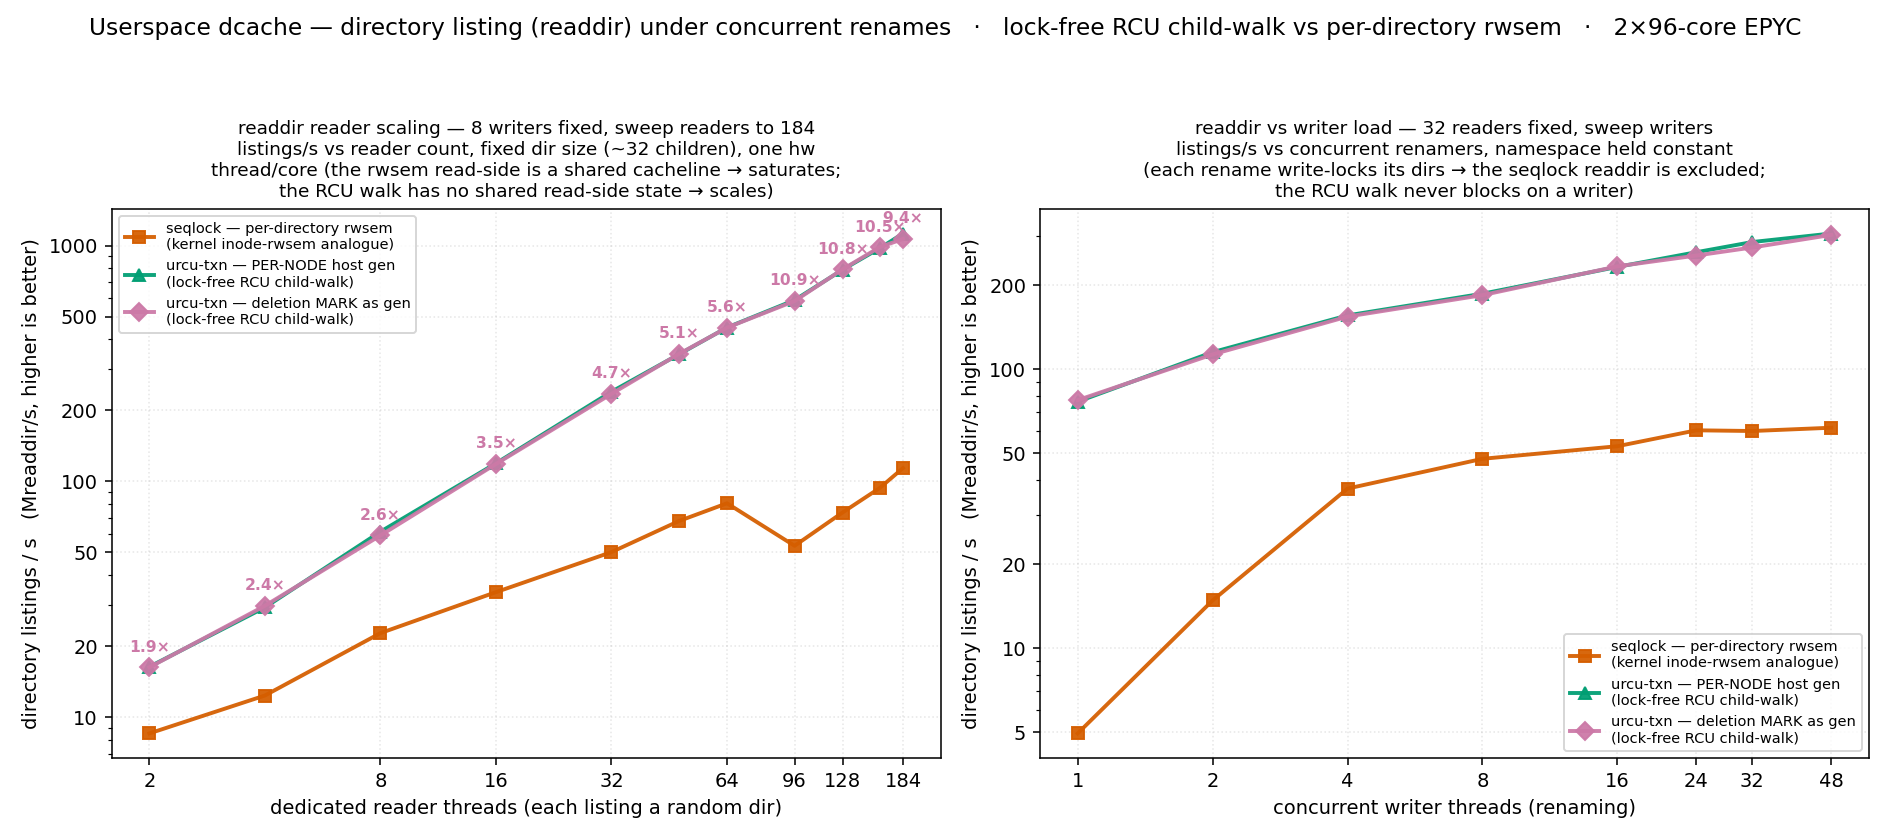
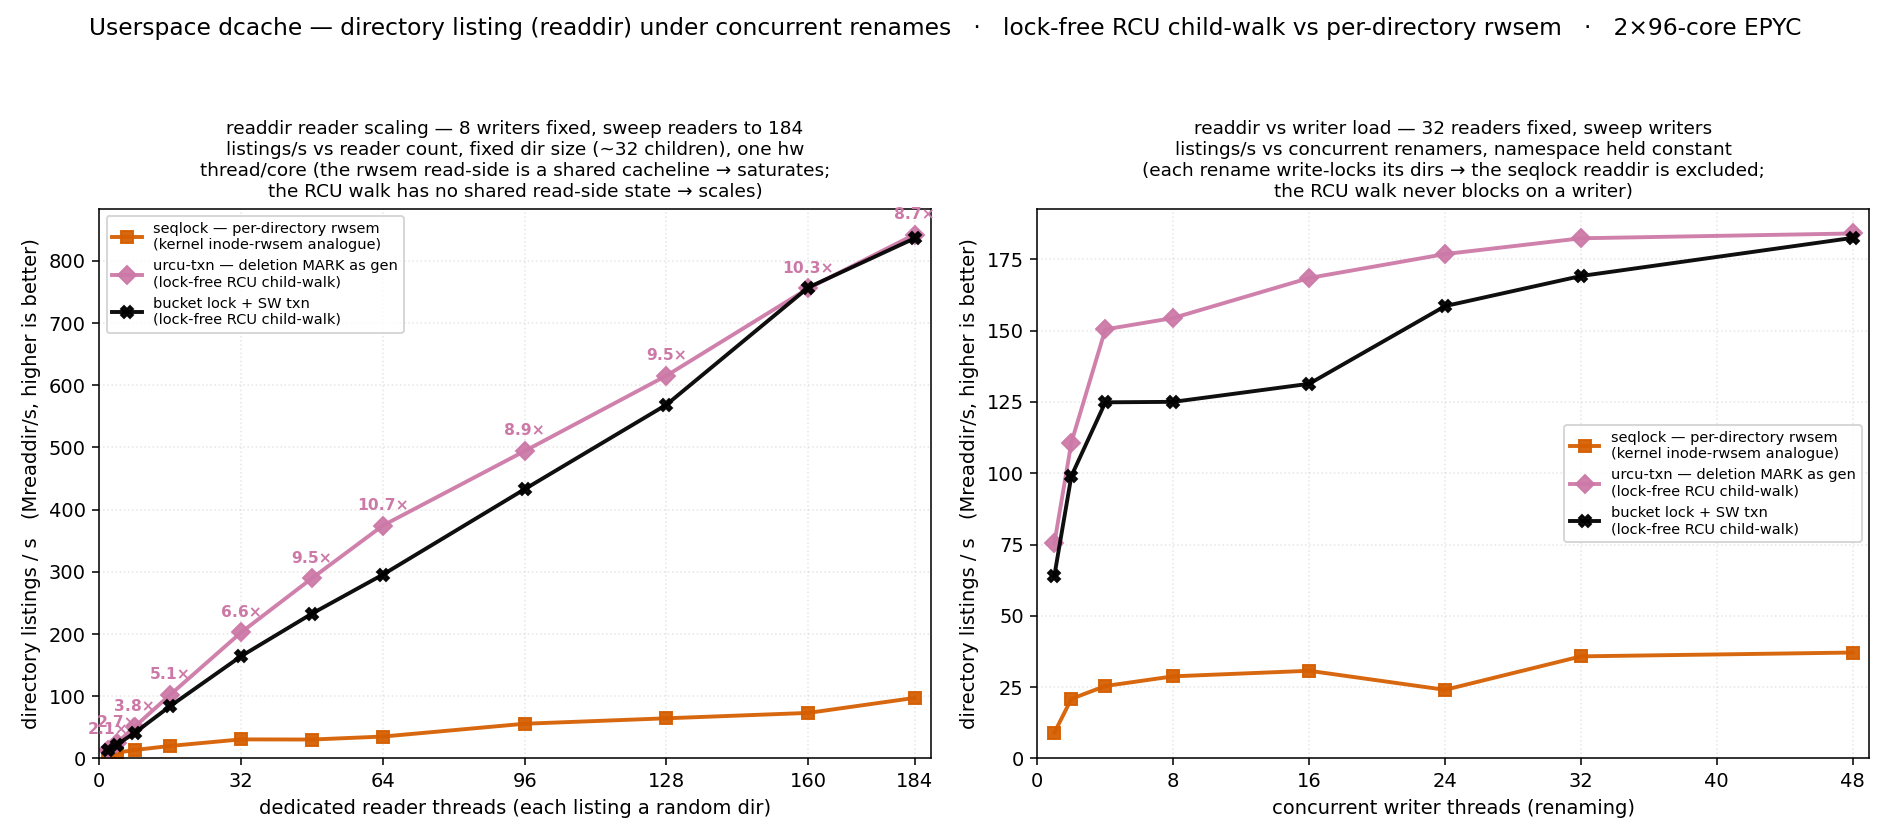
dcache readdir figure: add the bucket-lock arm + linear axes
The readdir plot was missed in both the bucket-lock rollout and the linear-axis
pass -- its CSV (dcache_sweep.csv, readdir_scale/readdir_w panels) already carried
the bucketlock rows from the S3 sweep, only the plot's default engine list and
log axes were stale.  Add the bucketlock arm (lock-free RCU child-walk, same as
the txn arms) and switch both panels to linear x/y, matching the other five
figures.  Plot-only regen; no benchmark rerun.

diff --git a/scripts/plot_dcache_readdir.py b/scripts/plot_dcache_readdir.py
@@ -33,14 +33,12 @@ _num = FuncFormatter(lambda v, pos: f"{v:g}")
 
 
 def plain_y(ax):
-    ax.set_yscale("log")
-    ax.yaxis.set_major_locator(LogLocator(base=10, subs=(1, 2, 5)))
+    ax.set_ylim(bottom=0)
     ax.yaxis.set_major_formatter(_num)
-    ax.yaxis.set_minor_formatter(NullFormatter())
 
 
 def plain_thread_x(ax, ticks):
-    ax.set_xscale("log", base=2)
+    ax.set_xlim(0, max(ticks) * 1.02)
     ax.xaxis.set_major_locator(FixedLocator(ticks))
     ax.xaxis.set_major_formatter(FixedFormatter([str(t) for t in ticks]))
     ax.xaxis.set_minor_formatter(NullFormatter())
@@ -52,19 +50,21 @@ OUT = os.environ.get("OUT",
                      os.path.join(HERE, os.pardir, "figures", "dcache_readdir.png"))
 
 COLOR = {"seqlock": "#D55E00", "txn-global": "#0072B2",
-         "txn-pernode": "#009E73", "txn-mark": "#CC79A7"}
-MARKER = {"seqlock": "s", "txn-global": "o", "txn-pernode": "^", "txn-mark": "D"}
+         "txn-pernode": "#009E73", "txn-mark": "#CC79A7", "bucketlock": "#000000"}
+MARKER = {"seqlock": "s", "txn-global": "o", "txn-pernode": "^", "txn-mark": "D",
+          "bucketlock": "X"}
 LABEL = {
     "seqlock": "seqlock — per-directory rwsem\n(kernel inode-rwsem analogue)",
     "txn-global": "urcu-txn — GLOBAL rename_gen\n(lock-free RCU child-walk)",
     "txn-pernode": "urcu-txn — PER-NODE host gen\n(lock-free RCU child-walk)",
     "txn-mark": "urcu-txn — deletion MARK as gen\n(lock-free RCU child-walk)",
+    "bucketlock": "bucket lock + SW txn\n(lock-free RCU child-walk)",
 }
 # The readdir reader path reads NO generation in any txn arm, so the localized
 # arms are expected to coincide here; the mark arm is plotted to show that, and
 # to make its small trailing visible rather than hidden in the CSV.
 ENGINES = tuple(os.environ.get(
-    "ENGINES", "seqlock txn-pernode txn-mark").split())
+    "ENGINES", "seqlock txn-mark bucketlock").split())
 rows = list(csv.DictReader(open(CSV)))
 
 
@@ -101,7 +101,7 @@ for rd in sorted(base.get(ANNOT, {})):
                          ha="center", fontsize=8, color=COLOR[ANNOT],
                          fontweight="bold")
 if ax1.has_data():
-    plain_thread_x(ax1, [2, 8, 16, 32, 64, 96, 128, 184])
+    plain_thread_x(ax1, [0, 32, 64, 96, 128, 160, 184])
     plain_y(ax1)
 ax1.set_title("readdir reader scaling — 8 writers fixed, sweep readers to 184\n"
               "listings/s vs reader count, fixed dir size (~32 children), one hw\n"
@@ -118,7 +118,7 @@ for e in ENGINES:
     ax2.plot(xs, ys, color=COLOR[e], marker=MARKER[e], lw=2.0, ms=6.5,
              label=LABEL[e], alpha=0.94)
 if ax2.has_data():
-    plain_thread_x(ax2, [1, 2, 4, 8, 16, 24, 32, 48])
+    plain_thread_x(ax2, [0, 8, 16, 24, 32, 40, 48])
     plain_y(ax2)
 ax2.set_title("readdir vs writer load — 32 readers fixed, sweep writers\n"
               "listings/s vs concurrent renamers, namespace held constant\n"
